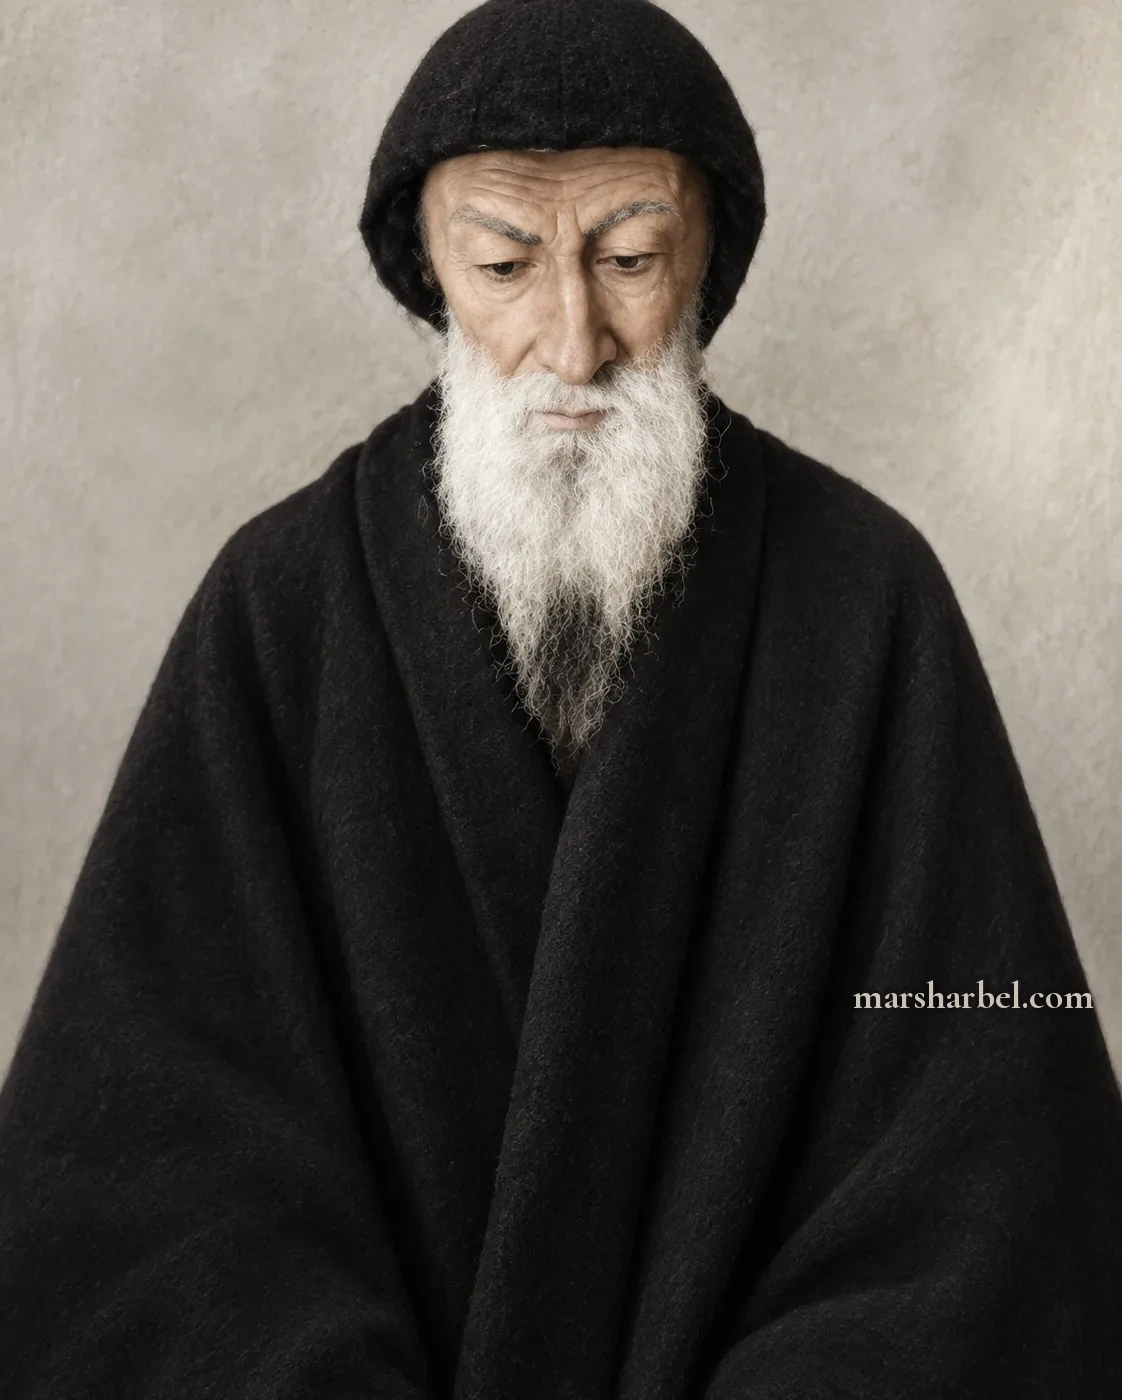
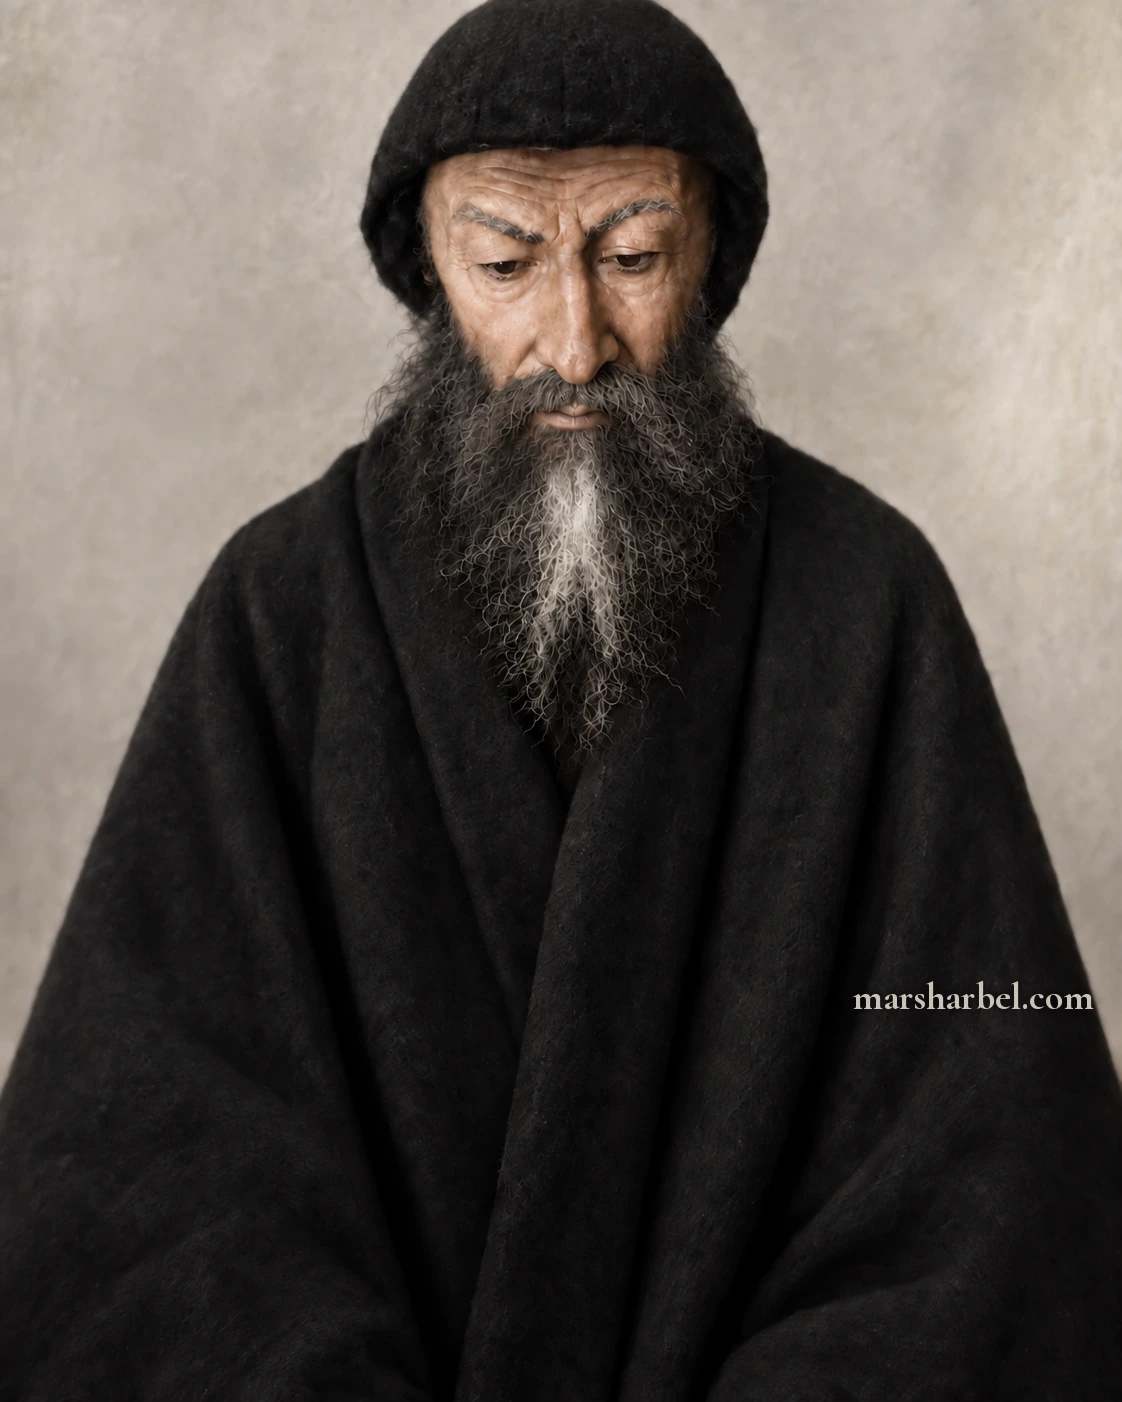
Gallery: dark-beard portraits (window rendition + candidate 01), Joey's caption (#470)
* Gallery: dark-beard AI rendition series, rev7-A homepage card and OG, caption, registry

* Sitemap lastmod after rebase

---------

diff --git a/gallery.html b/gallery.html
@@ -255,10 +255,10 @@
 
 
         <figure class="gallery-card">
-          <a class="gallery-item" data-index="4" href="gallery/charbel-rendition-01-faithful.webp?v=20261002-wm-grid-1">
-            <img src="gallery/charbel-rendition-01-faithful.webp?v=20261002-wm-grid-1" alt="AI transformation, not a photograph: Saint Charbel in a black hood and heavy black robe, eyes lowered, white beard, against a plain stone-colored wall" width="1122" height="1400" loading="lazy" decoding="async" />
+          <a class="gallery-item" data-index="4" href="gallery/charbel-rendition-01-faithful.webp?v=20261002-dark-beard-3">
+            <img src="gallery/charbel-rendition-01-faithful.webp?v=20261002-dark-beard-3" alt="AI transformation, not a photograph: Saint Charbel in a black cap and heavy black robe, eyes lowered, dark beard with a grey center streak, against a plain stone-colored wall" width="1122" height="1402" loading="lazy" decoding="async" />
           </a>
-          <figcaption>AI transformation, not a photograph. Series, candidate 1: an AI-assisted imagined portrait in a plain studio setting.</figcaption>
+          <figcaption>This is how the creator of this website saw Saint Charbel when he appeared to him on December 22. An artistic rendition of that moment - not a photograph. AI transformation, series candidate 1: an AI-assisted imagined portrait.</figcaption>
         </figure>
 
         <figure class="gallery-card">
@@ -283,8 +283,8 @@
         </figure>
 
         <figure class="gallery-card">
-          <a class="gallery-item" data-index="8" href="gallery/charbel-window-rendition.webp?v=20261002-wm-grid-1">
-            <img src="gallery/charbel-window-rendition.webp?v=20261002-wm-grid-1" alt="AI transformation, not a photograph: close portrait of Saint Charbel in a black monastic hood, eyes lowered, with a full white beard, a lit window blurred behind him" width="1600" height="2000" loading="lazy" decoding="async" />
+          <a class="gallery-item" data-index="8" href="gallery/charbel-window-rendition.webp?v=20261002-dark-beard-3">
+            <img src="gallery/charbel-window-rendition.webp?v=20261002-dark-beard-3" alt="AI transformation, not a photograph: close portrait of Saint Charbel in a black monastic hood, eyes lowered, with a full dark beard, a lit window blurred behind him" width="2244" height="2804" loading="lazy" decoding="async" />
           </a>
           <figcaption>AI transformation, not a photograph. Series, final: an AI-assisted close portrait of Saint Charbel in an imagined hermitage, based on the historic photograph above. It shows how he might have looked and is not a record of any real scene.</figcaption>
         </figure>

diff --git a/tests/gallery-historic-photo.spec.js b/tests/gallery-historic-photo.spec.js
@@ -15,18 +15,19 @@ test('gallery historic photograph is credited, opens, and wraps to the first ima
   expect(captionBox.y + captionBox.height).toBeLessThanOrEqual(page.viewportSize().height);
   await expect(page.locator('#lightbox-image')).toHaveAttribute('src', /\/?media\/annaya\/charbel-historic-photo\.webp$/);
   await page.locator('#lightbox-next').click();
-  await expect(page.locator('#lightbox-caption')).toContainText('AI transformation, not a photograph');
-  await expect(page.locator('#lightbox-image')).toHaveAttribute('src', /gallery\/charbel-rendition-01-faithful\.webp\?v=20261002-wm-grid-1$/);
+  await expect(page.locator('#lightbox-caption')).toContainText('An artistic rendition of that moment - not a photograph');
+  await expect(page.locator('#lightbox-caption')).toContainText('AI transformation');
+  await expect(page.locator('#lightbox-image')).toHaveAttribute('src', /gallery\/charbel-rendition-01-faithful\.webp\?v=20261002-dark-beard-3$/);
   await expect(page.locator('#gallery-lightbox')).toHaveCSS('background-color', 'rgb(4, 8, 12)');
   await page.keyboard.press('Escape');
   await expect(page.locator('.share-bar')).toHaveCount(9);
   await page.locator('.gallery-item').last().click();
   await expect(page.locator('#lightbox-caption')).toContainText('AI transformation, not a photograph');
-  await expect(page.locator('#lightbox-image')).toHaveAttribute('src', /gallery\/charbel-window-rendition\.webp\?v=20261002-wm-grid-1$/);
+  await expect(page.locator('#lightbox-image')).toHaveAttribute('src', /gallery\/charbel-window-rendition\.webp\?v=20261002-dark-beard-3$/);
   await page.locator('#lightbox-next').click();
   await expect(page.locator('#lightbox-image')).toHaveAttribute('src', /\/?gallery\/user-link-1\.jpg$/);
   await page.locator('#lightbox-prev').click();
-  await expect(page.locator('#lightbox-image')).toHaveAttribute('src', /gallery\/charbel-window-rendition\.webp\?v=20261002-wm-grid-1$/);
+  await expect(page.locator('#lightbox-image')).toHaveAttribute('src', /gallery\/charbel-window-rendition\.webp\?v=20261002-dark-beard-3$/);
   await page.keyboard.press('Escape');
   await expect(page.locator('#gallery-lightbox')).toBeHidden();
 });

diff --git a/index.html b/index.html
@@ -173,7 +173,7 @@
 
 <!-- i18n-news-home:end -->
 <div class="home-pair">
-<section class="home-gallery" aria-labelledby="home-gallery-heading"><a class="home-gallery-card" href="./gallery"><span class="home-gallery-photo"><img src="./gallery/charbel-window-rendition.webp?v=20261002-wm-grid-1" alt="AI transformation, not a photograph: close portrait of Saint Charbel in a black monastic hood, eyes lowered, with a full white beard and a lit window blurred behind him" width="1600" height="2000" loading="lazy" decoding="async" /></span><span class="home-gallery-copy"><span class="home-gallery-eyebrow">Gallery</span><h2 id="home-gallery-heading">See how he may have looked</h2><span class="home-gallery-dek">An imagined portrait of Saint Charbel. An artistic rendition made with AI, not a photograph and not a historical record.</span><span class="home-gallery-cta">Open the gallery <span aria-hidden="true">&rarr;</span></span></span></a></section>
+<section class="home-gallery" aria-labelledby="home-gallery-heading"><a class="home-gallery-card" href="./gallery"><span class="home-gallery-photo"><img src="./gallery/charbel-rendition-01-faithful.webp?v=20261002-dark-beard-3" alt="AI transformation, not a photograph: Saint Charbel in a black cap and heavy black robe, eyes lowered, dark beard with a grey center streak, against a plain stone-colored wall" width="1122" height="1402" loading="lazy" decoding="async" /></span><span class="home-gallery-copy"><span class="home-gallery-eyebrow">Gallery</span><h2 id="home-gallery-heading">See how he may have looked</h2><span class="home-gallery-dek">An imagined portrait of Saint Charbel. An artistic rendition made with AI, not a photograph and not a historical record.</span><span class="home-gallery-cta">Open the gallery <span aria-hidden="true">&rarr;</span></span></span></a></section>
 
     <section class="monthly-prayer" id="monthly-prayer" aria-labelledby="monthly-prayer-title">
       <div class="monthly-prayer-intro">

diff --git a/docs/seo/photo-rights-registry.md b/docs/seo/photo-rights-registry.md
@@ -273,7 +273,7 @@ media/news/kfifan-context.webp: Kfifane Convent, Lebanon, June 23, 2012, Evilsca
 ## Gallery watermark and enhancement takes (2026-10-02)
 
 - All five AI series files in gallery/ are watermarked "marsharbel.com" in the file; clean originals in assets/originals/gallery/. Regenerate with scripts/watermark_ai_image.py.
-- gallery/charbel-window-og-1200x630.jpg: /gallery og and twitter image, built from the 2244x2804 window final on a blurred fill, watermarked.
+- gallery/charbel-window-og-1200x630.jpg: /gallery og and twitter image. Since 2026-10-02 it is a 1200x630 face crop (top offset 10% of height, full width, Lanczos resize) of the served rev7-A gallery/charbel-rendition-01-faithful.webp (1122x1402). The crop excludes the watermark band, so no watermark is in frame. No separate clean original exists; do not regenerate it from the window image.
 - Held back: enhanced versions of the supplied scan (light +4%, 4x export; moderate pass unrecorded) are NOT published. Clean files are kept out of the repo until the owner confirms he is the source and may publish it (see the OPEN PROVENANCE GAP entry above).
 
 ## 2026-10-02 - photo pass on six text-only topic pages (reuse of registered assets, no new files)
@@ -281,3 +281,9 @@ media/news/kfifan-context.webp: Kfifane Convent, Lebanon, June 23, 2012, Evilsca
 - saint-charbel-relics, how-did-saint-charbel-die: charbel-tomb.webp (LLEW, CC BY-SA 4.0).
 - saint-charbel-quotes: charbel-historic-photo.webp (public domain per Commons), shown at 320px max to avoid upscaling a 419px source.
 - saint-charbel-patron-saint: lebanon-cedars.webp (Vyacheslav Argenberg, CC BY 4.0).
+
+## 2026-10-02 - dark-beard replacements in the AI gallery series
+- gallery/charbel-window-rendition.webp (2244x2804) replaced by the dark-beard version and gallery/charbel-rendition-01-faithful.webp (1122x1402) replaced by the dark-beard "rev7-A" image, per Joey's WhatsApp requests of 2:01 PM ("add this image to the glallery please!!!") and his 2:08 PM correction naming rev7-A. Cache version 20261002-dark-beard-3.
+- Window image: clean original in assets/originals/gallery/charbel-window-rendition.webp; served file watermarked with --bottom-frac 0.72 --size-frac 0.034. The gallery og image is no longer built from this image (see the og entry above).
+- Rev7-A: NO clean original exists. The served file is the supplied watermarked preview (watermark baked at the grid parameters) converted to WebP q92. Regenerate only if a clean original is supplied.
+- Candidate 01 caption text dictated by Joey (relayed 2:04 PM). AI-rendition labels kept in captions and alt text. Generation details of the new images are not recorded in this repo; no claim about their copyright.
